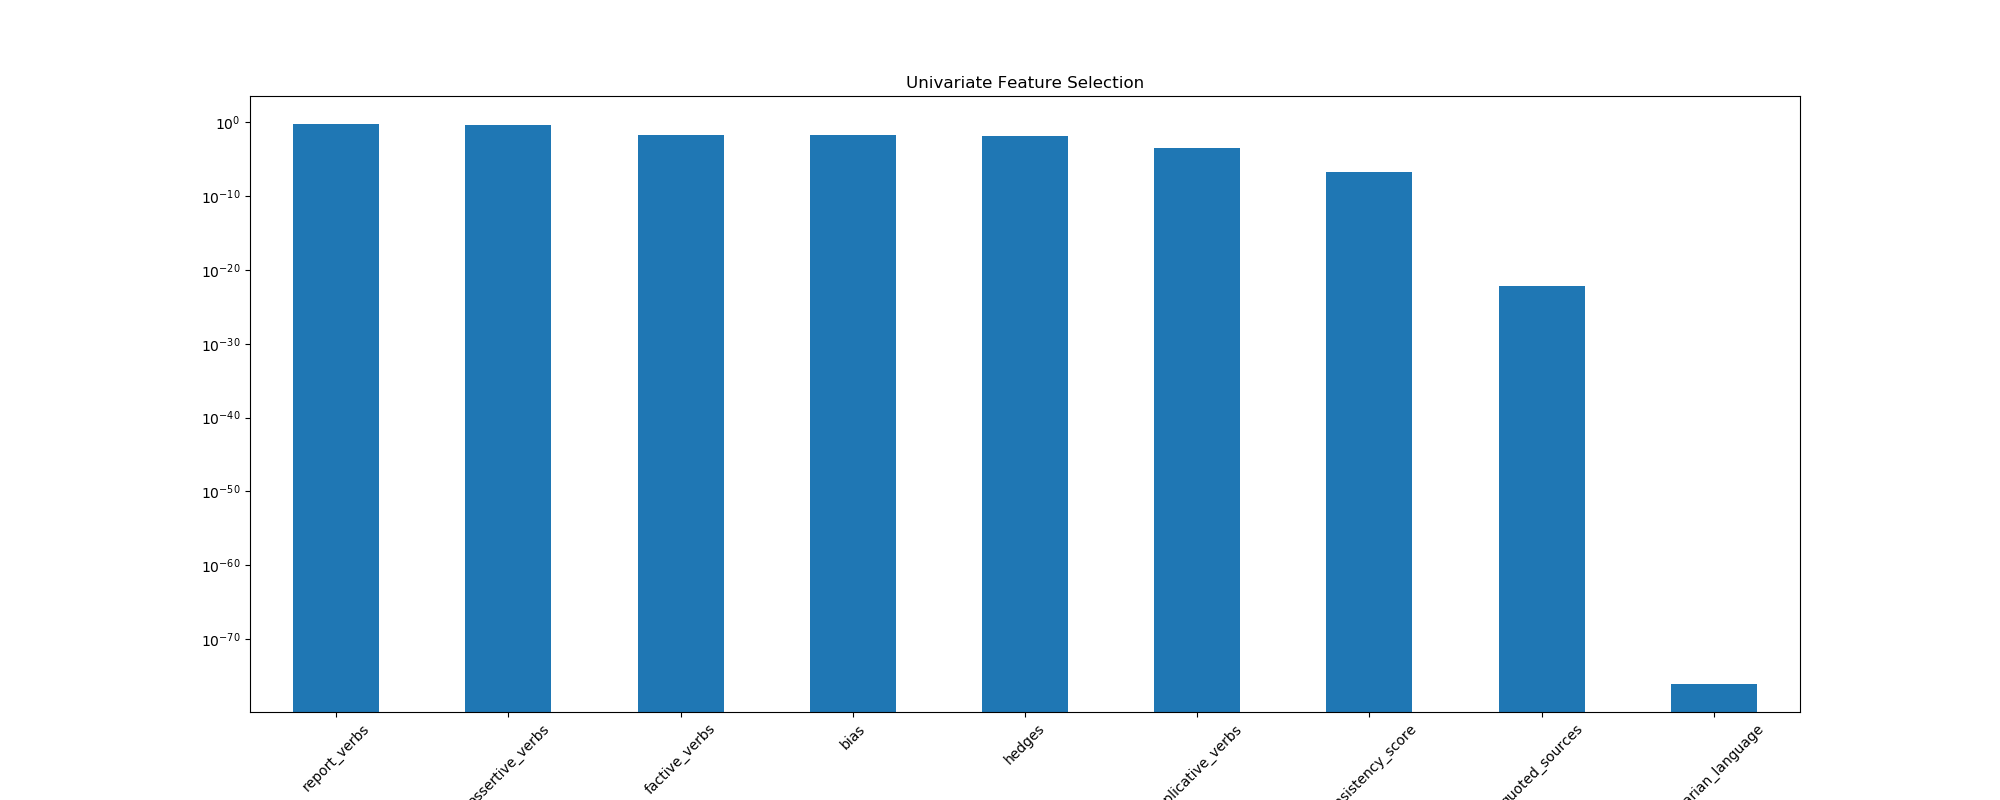
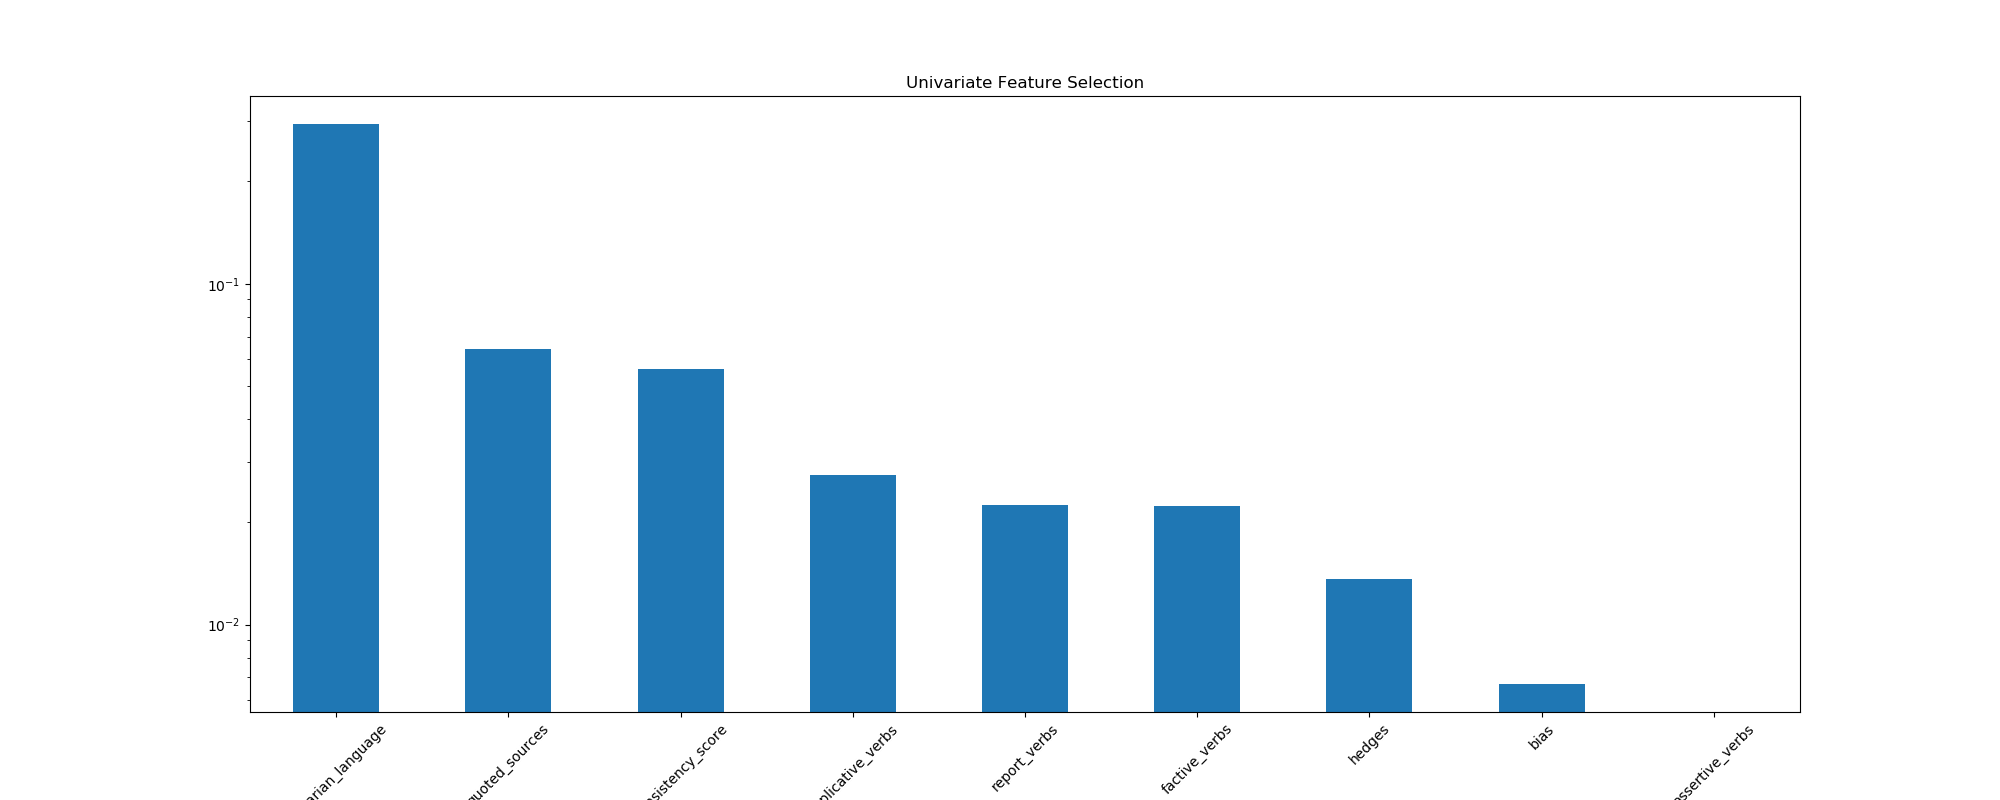
refactored univariate fs and rfe

diff --git a/feature_selection/feature_selection_code.py b/feature_selection/feature_selection_code.py
@@ -3,8 +3,7 @@ from sklearn.feature_selection import RFE
 from sklearn.linear_model import Lasso
 from sklearn.ensemble import ExtraTreesRegressor, ExtraTreesClassifier
 from sklearn.tree import DecisionTreeClassifier
-from xgboost import XGBRegressor, XGBClassifier
-from sklearn.decomposition import PCA
+from xgboost import XGBClassifier
 from sklearn.preprocessing import StandardScaler, MinMaxScaler
 from scipy.stats import boxcox
 import pandas as pd
@@ -17,7 +16,6 @@ from sklearn.feature_selection import VarianceThreshold, SelectKBest, f_regressi
 # variables that control the number of features to be selected in each FS method
 NUM_FEATURES_UNIVARIATE = 4  # This should be less than the total number of input features
 NUM_FEATURES_RFE = 4  # This should be less than the total number of input features
-NUM_FEATURES_PCA = 2  # This should be less than the total number of input features
 import warnings
 
 warnings.filterwarnings("ignore")
@@ -26,7 +24,7 @@ warnings.filterwarnings("ignore")
     User edits in this file
     --------------------
 
-    lines 16, 17, and 18 in order to control the number of features to be selected in each feature selection method
+    lines 18, 19, and 20 in order to control the number of features to be selected in each feature selection method
 
 
     Scaling
@@ -68,6 +66,12 @@ warnings.filterwarnings("ignore")
 
     * output_folder: the path to the output folder that will be holding several modeling plots. If the path specified does not exist, it will be created dynamically at runtime.
 
+    Regression vs. Classification
+    ------------------------------
+    
+    If Regression, then specify regression=True. If Classification, then specify regression=False
+    
+    
     Columns
     --------------------
 
@@ -107,9 +111,6 @@ warnings.filterwarnings("ignore")
     * univariate(): Applies Univariate Feature Selection with NUM_FEATURES_UNIVARIATE being selected (specified in line 17 in feature_selection_code.py). Raises Vlaue Error in this is greater than the total number of input features.
 
     * rfe():  Applies Recursive Feature Elimination with NUM_FEATURES_RFE being selected (specified in line 18 in feature_selection_code.py). Raises Vlaue Error in this is greater than the total number of input features.
-
-    * pca():  Applies PCA NUM_FEATURES_PCA principal components done. (specified in line 19 in feature_selection_code.py). Raises Vlaue Error in this is greater than the total number of input features.
-
 """
 
 
@@ -171,29 +172,6 @@ class FeatureSelection:
         # whether its a regression or classification problem
         self.regression = regression
 
-        self.labelsdict = {
-            'demand': 'demand',
-            'civilians_rank': 'civilians',
-            'distance': 'dist',
-            'AverageTemp': 'Avg.Temp',
-            'AverageWindSpeed': 'Avg.WS',
-            'Precipitation': 'precip',
-            'w_{t-1}': 't-1',
-            'w_{t-2}': 't-2',
-            'w_{t-3}': 't-3',
-            'w_{t-4}': 't-4',
-            'w_{t-5}': 't-5',
-            'w_{t-1}_trend': 'trend',
-            'w_{t-1}_seasonality': 'season',
-            'service_General Medicine': 'Gen.Med',
-            'service_Gynaecology': 'Gynaecol',
-            'service_Pediatrics': 'Ped',
-            'service_Pharmacy': 'Pharm',
-            'mohafaza_B': 'mB',
-            'mohafaza_N': 'mN',
-            'mohafaza_NE': 'mNE',
-        }
-
         if scale:
             # if we want to scale
             if input_zscore is not None:
@@ -252,7 +230,7 @@ class FeatureSelection:
 
         return reduced_df
 
-    def drop_high_correlation(self, moph_project=False):
+    def drop_high_correlation(self):
         '''
         drops columns that have high correlation with each other
         :param moph_project: boolean, indicating if this is for this particular project. If yes,
@@ -265,10 +243,6 @@ class FeatureSelection:
         # check if output folder exists, if not create it
         if not os.path.exists(output_folder):
             os.makedirs(output_folder)
-
-        # labels to replace columns names by for shorter representation
-        if moph_project:
-            df = df.rename(columns=self.labelsdict)
 
         # the correlation matrix plot
         corr = df.corr()
@@ -289,11 +263,6 @@ class FeatureSelection:
         plt.savefig(output_folder + 'corr_matrix', dpi=100)
         plt.close()
 
-        # for tick in ax.xaxis.get_major_ticks():
-        #     tick.label.set_fontsize(6)
-
-        # the columns with high correlation part
-
         # redefine the data frame (with the original namings - not the abbreviations)
         df = self.df
         corr_matrix = df.corr().abs()
@@ -306,7 +275,6 @@ class FeatureSelection:
         reduced_df = df.drop(to_drop, axis=1)
         print("The reduced_df dataframe has {} columns".format(reduced_df.shape[1]))
         print("Dropped columns: {}".format(to_drop))
-
 
     def feature_importance(self, xg_boost=True, extra_trees=False):
         """
@@ -325,23 +293,6 @@ class FeatureSelection:
 
         if xg_boost:
             print('\n********** Method 4: Calculating the feature importance using XGBoost. **********\n')
-            ''' feature importance using XGBoost '''
-            # model = XGBRegressor(n_estimators=100)
-            # model.fit(X, y)
-            # feature_imp = {}
-            # for i in range(len(model.feature_importances_)):
-            #     # print('%s: %.5f' % (columns[i], model.feature_importances_[i]))
-            #     feature_imp[feature_names[i]] = model.feature_importances_[i]
-            # feature_imp = dict(sorted(feature_imp.items(), key=lambda kv: kv[1], reverse=True))
-            # df_imp_xgb = pd.DataFrame(columns=['feature', 'importance'])
-            # print('\nFeatures - Importance\n')
-            # for key, value in feature_imp.items():
-            #     print('%s: %.5f' % (key, value))
-            #     df_imp_xgb = df_imp_xgb.append({
-            #         'feature': key,
-            #         'importance': '{:.5f}'.format(value)
-            #     }, ignore_index=True)
-            # print('\n')
 
             if self.regression:
                 # feature_names = feature_names
@@ -371,8 +322,8 @@ class FeatureSelection:
                     'importance': '{:.5f}'.format(value)
                 }, ignore_index=True)
             print('\n')
-            #
-            # # Plot the feature importances
+
+            # Plot the feature importances
             if self.regression:
                 xgb.plot_importance(xg_reg)
             else:
@@ -400,10 +351,7 @@ class FeatureSelection:
                 # print('%s: %.5f' % (columns[i], model.feature_importances_[i]))
                 feature_imp[feature_names[i]] = model.feature_importances_[i]
             feature_imp = dict(sorted(feature_imp.items(), key=lambda kv: kv[1], reverse=True))
-            # print('\nFeatures - Importance\n')
-            # for key, value in feature_imp.items():
-            #     print('%s: %.5f' % (key, value))
-            # print('\n')
+
             df_imp_ext = pd.DataFrame(columns=['feature', 'importance'])
             print('\nFeatures - Importance\n')
             for key, value in feature_imp.items():
@@ -429,29 +377,28 @@ class FeatureSelection:
             print('saved plot in {}/{}'.format(output_folder, 'extratrees_fs.png'))
             df_imp_ext.to_csv(os.path.join(output_folder, 'extratrees_fs_importances.csv'), index=False)
 
-    def univariate(self, moph_project=False):
+    def univariate(self):
         ''' univariate feature selection '''
 
         if NUM_FEATURES_UNIVARIATE > self.X.shape[1]:
             raise ValueError('NUM_FEATURES_UNIVARIATE must be less than the total number of input columns.'
                              '\n. Please change line 18 in feature_selection_code.py')
+
         print('\n********** Method 6: Univariate Feature Selection **********\n')
-        # X_train, X_test, y_train, y_test = train_test_split(X, y, test_size=0.3, random_state=101)
 
         X = self.X_df
         y = self.y_df
-        labels = self.labelsdict
-        # labels to replace columns names by for shorter representation
-        if moph_project:
-            del labels[self.target_variable]
-            X = X.rename(columns=self.labelsdict)
 
         output_folder = self.output_folder
 
-        univariate = f_regression(X, y)
+        if self.regression:
+            univariate = f_regression(X, y)
+            univariate = pd.Series(univariate[1])
+        else:
+            univariate = mutual_info_classif(X, y)
+            univariate = pd.Series(univariate)
 
         # Capture P values in a series
-        univariate = pd.Series(univariate[1])
         univariate.index = X.columns
         univariate.sort_values(ascending=False, inplace=True)
         # Plot the P values

diff --git a/feature_selection/run_feature_selection.py b/feature_selection/run_feature_selection.py
@@ -2,37 +2,37 @@ import pandas as pd
 from feature_selection_code import FeatureSelection
 import os
 
-df_train = pd.read_csv('input/feature_extraction_train_updated.csv', encoding='latin-1')
-df_test = pd.read_csv('input/feature_extraction_test_updated.csv', encoding='latin-1')
-df = pd.concat([df_train, df_test])
+if __name__ == '__main__':
+    df_train = pd.read_csv('input/feature_extraction_train_updated.csv', encoding='latin-1')
+    df_test = pd.read_csv('input/feature_extraction_test_updated.csv', encoding='latin-1')
+    df = pd.concat([df_train, df_test])
 
-col_len = len(list(df.columns))
+    col_len = len(list(df.columns))
 
+    output_folder = 'output/'
 
-output_folder = 'output_FAKES/'
-if not os.path.exists(output_folder):
-    os.makedirs(output_folder)
+    if not os.path.exists(output_folder):
+        os.makedirs(output_folder)
 
-# don't change the name of the target variable (as it will be taken automatically from the loop)
-fs = FeatureSelection(df, target_variable='label',
-                      output_folder=output_folder,
-                      cols_drop=['article_title', 'article_content', 'source', 'source_category', 'unit_id'],
-                      scale=True,
-                      scale_input=True,
-                      scale_output=False,
-                      output_zscore=False,
-                      output_minmax=False,
-                      output_box=False,
-                      output_log=False,
-                      input_zscore=(1, col_len - 6),
-                      input_minmax=None,
-                      input_box=None,
-                      input_log=None,
-                      regression=False)
+    fs = FeatureSelection(df, target_variable='label',
+                          output_folder=output_folder,
+                          cols_drop=['article_title', 'article_content', 'source', 'source_category', 'unit_id'],
+                          scale=True,
+                          scale_input=True,
+                          scale_output=False,
+                          output_zscore=False,
+                          output_minmax=False,
+                          output_box=False,
+                          output_log=False,
+                          input_zscore=(0, len(df.drop(['article_title', 'article_content', 'source', 'source_category', 'unit_id'], axis=1).columns) - 1),
+                          input_minmax=None,
+                          input_box=None,
+                          input_log=None,
+                          regression=False)
 
-fs.drop_zero_std()
-fs.drop_low_var()
-fs.drop_high_correlation(moph_project=True)
-fs.feature_importance(xg_boost=True, extra_trees=True)
-fs.univariate(moph_project=False)
-fs.rfe()
+    fs.drop_zero_std()
+    fs.drop_low_var()
+    fs.drop_high_correlation()
+    fs.feature_importance(xg_boost=True, extra_trees=True)
+    fs.univariate()
+    fs.rfe()
